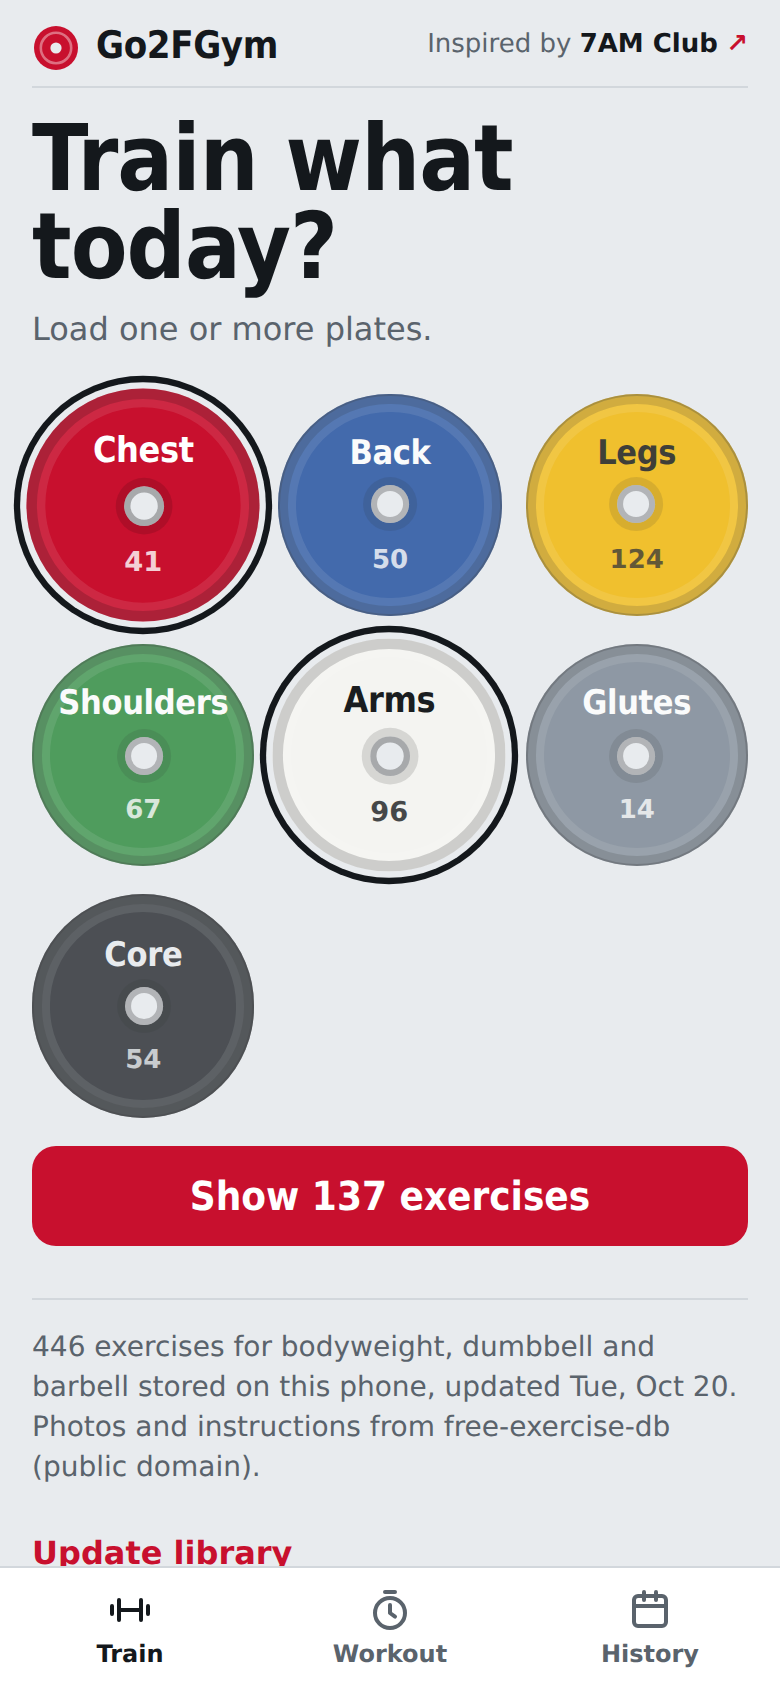
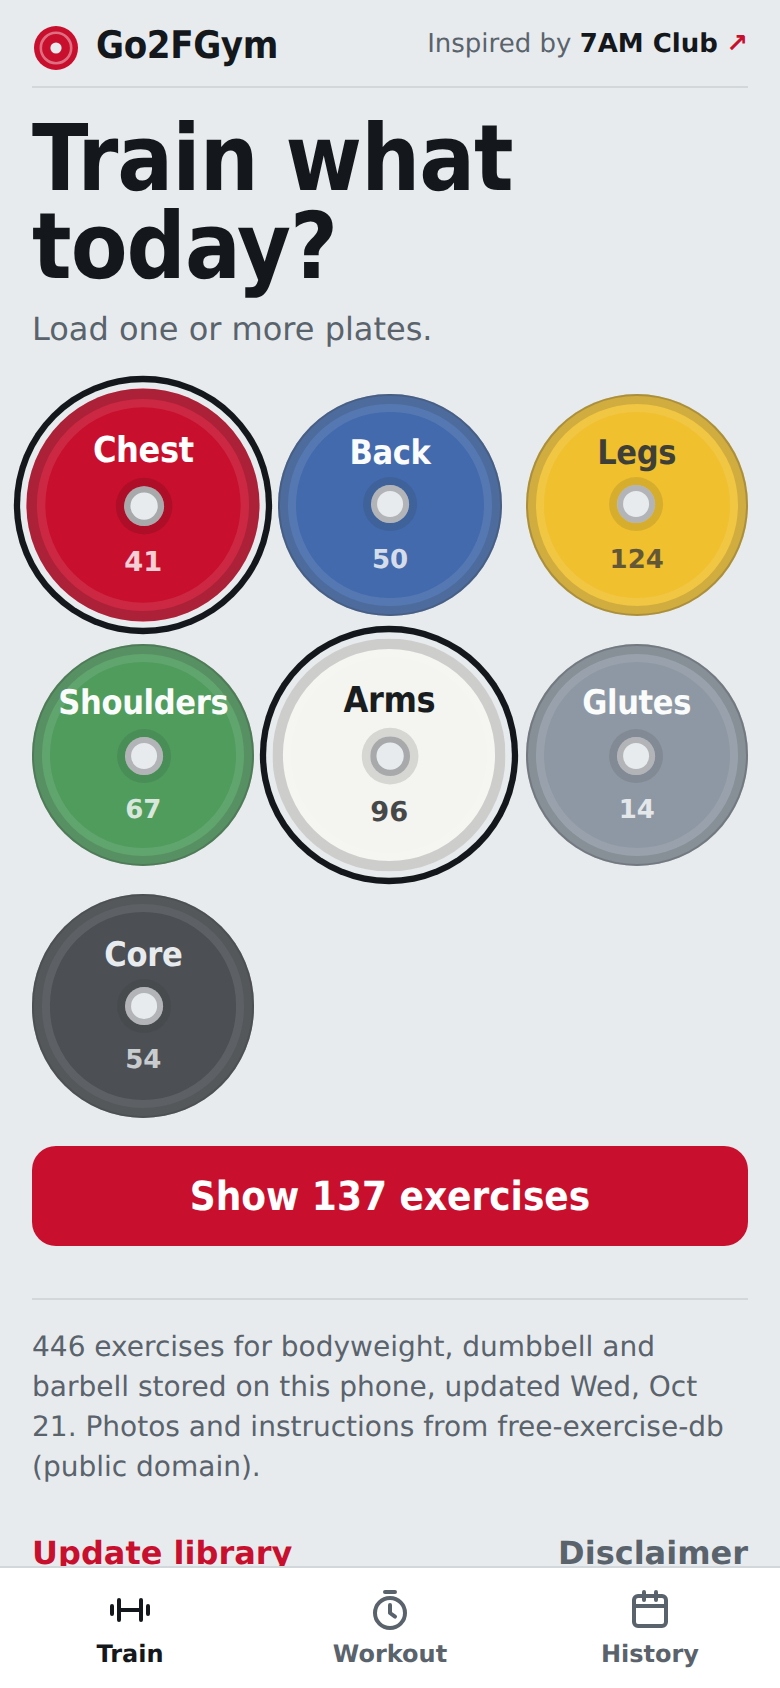
Add own-risk disclaimer: accept on first launch, Disclaimer link, safety note on exercises

Changed region(s): [[0.0308, 0.8009, 0.9231, 0.8626], [0.7077, 0.8934, 0.9538, 0.9242]]

diff --git a/Go2FGym.js b/Go2FGym.js
@@ -44,8 +44,12 @@ const P = {
   meta: fm.joinPath(ROOT, "library-meta.json"),
   history: fm.joinPath(ROOT, "history.json"),
   draft: fm.joinPath(ROOT, "draft.json"),
+  consent: fm.joinPath(ROOT, "disclaimer-accepted.json"),
 };
 for (const d of [ROOT, IMG]) if (!fm.fileExists(d)) fm.createDirectory(d, true);
+
+// Bump when the disclaimer text changes materially, so users accept it again.
+const DISCLAIMER_VERSION = 1;
 
 const J = (v) => JSON.stringify(v).replace(/\u2028/g, "\\u2028").replace(/\u2029/g, "\\u2029");
 const sleep = (ms) => new Promise((r) => Timer.schedule(ms, false, r));
@@ -261,7 +265,8 @@ async function runApp() {
     history,
     draft: readJSON(P.draft, null),
     meta: readJSON(P.meta, null),
-    cfg: { unit: CONFIG.unit, rest: CONFIG.restSeconds, equipment: CONFIG.equipment },
+    consent: readJSON(P.consent, null),
+    cfg: { unit: CONFIG.unit, rest: CONFIG.restSeconds, equipment: CONFIG.equipment, disclaimerVersion: DISCLAIMER_VERSION },
   };
 
   const wv = new WebView();
@@ -287,6 +292,9 @@ async function runApp() {
             }
           await js(`HG.onImages(${J(id)},${J(urls)})`);
         }
+        break;
+      case "accept":
+        writeJSON(P.consent, { version: p.version, acceptedAt: new Date().toISOString() });
         break;
       case "open":
         if (typeof p.url === "string" && p.url.startsWith("https://")) Safari.open(p.url);
@@ -435,6 +443,9 @@ function webApp() {
     imgs: {}, pending: new Set(), queue: new Set(),
     rest: { end: 0, total: 0, beeped: true },
     openSession: null, armed: null, sync: null,
+    consent: !!(BOOT.consent && BOOT.consent.version === CFG.disclaimerVersion),
+    showDisclaimer: false,
+    acceptedAt: BOOT.consent ? BOOT.consent.acceptedAt : null,
     scroll: {}, outbox: [],
   };
 
@@ -667,6 +678,23 @@ function webApp() {
       <button class="club" data-a="club" aria-label="Inspired by the 7AM Club community. Opens their Instagram.">Inspired by <b>7AM Club</b> <span aria-hidden="true">↗</span></button></header>`;
   }
 
+  function renderDisclaimer() {
+    const first = !S.consent;
+    return `${first ? appHeader() : `<header class="bar"><button class="back" data-a="close-disclaimer">‹ Back</button></header>`}
+      <h1 class="${first ? "hero" : "title"}">Train at your own risk</h1>
+      <div class="disclaimer">
+        <p>Go2FGym shows exercise photos and instructions for general information only. It is not medical, physiotherapy or coaching advice.</p>
+        <p>Check with a doctor before you start, especially if you have an injury or a health condition, are pregnant, or haven't trained for a while.</p>
+        <p>Learn each movement with light weights, warm up, use safety stops or a spotter for heavy barbell work, and stop straight away if you feel pain, dizziness or shortness of breath.</p>
+        <p>The exercise data comes from a third-party public-domain source and may contain mistakes.</p>
+        <p><b>You use this app and do these exercises entirely at your own risk.</b> To the fullest extent permitted by law, the author is not responsible or liable for any injury, health problem, loss or damage arising from using the app or doing the exercises.</p>
+      </div>
+      ${first
+        ? `<button class="primary" data-a="accept">I understand and accept</button>
+           <p class="muted small">You'll only be asked once. The full text is always available from the Train screen.</p>`
+        : `<p class="muted small">Accepted ${S.acceptedAt ? esc(day(S.acceptedAt)) : "earlier"}.</p>`}`;
+  }
+
   function renderLibraryEmpty() {
     return `${appHeader()}<h1 class="hero">Set up your gym</h1>
       <p class="lead">Download the exercise library once: about 450 exercises for ${esc(eqNames())}, each with two photos and step-by-step instructions (roughly 35 MB). After that, everything works offline.</p>
@@ -694,7 +722,8 @@ function webApp() {
       <button class="primary" data-a="browse" ${sel ? "" : "disabled"}>${sel ? `Show ${countFor(selectedMuscles())} exercises` : "Pick a muscle group"}</button>
       <footer class="lib">
         <p class="muted small">${S.lib.length} exercises for ${esc(eqNames())} stored on this phone${S.meta ? `, updated ${esc(day(S.meta.syncedAt))}` : ""}. Photos and instructions from free-exercise-db (public domain).</p>
-        ${S.sync ? syncProgress() : `<button class="link" data-a="sync">Update library</button>`}
+        <div class="row">${S.sync ? "" : `<button class="link" data-a="sync">Update library</button>`}<button class="link danger" data-a="disclaimer">Disclaimer</button></div>
+        ${S.sync ? syncProgress() : ""}
       </footer>`;
   }
 
@@ -749,6 +778,7 @@ function webApp() {
       <h2>Works</h2><div class="tags">${muscleTags(e.pm)}</div>
       ${e.sm.length ? `<h2>Also helps</h2><div class="tags quiet">${muscleTags(e.sm)}</div>` : ""}
       <h2>How to do it</h2><ol class="steps">${e.ins.map((s) => `<li>${esc(s)}</li>`).join("")}</ol>
+      <p class="note">Use a weight you can control with good form, and stop if anything hurts. You train at your own risk.</p>
       ${last ? `<h2>Last time</h2><p>${esc(day(last.date))}: ${esc(fmtSets(last.sets))}</p>` : ""}
       ${trendFor(e.id)}
       <div class="cta">${on
@@ -827,17 +857,19 @@ function webApp() {
   }
 
   // ------------------------------------------------ render
-  const viewKey = () => (S.detailId ? `detail:${S.detailId}` : S.tab === "train" ? `train:${S.trainView}` : S.tab);
+  const viewKey = () => (!S.consent ? "consent" : S.showDisclaimer ? "disclaimer" : S.detailId ? `detail:${S.detailId}` : S.tab === "train" ? `train:${S.trainView}` : S.tab);
   let currentKey = null;
   function render() {
     const key = viewKey();
     const same = currentKey === key;
     const y = window.scrollY;
     if (currentKey && !same) S.scroll[currentKey] = y;
-    $app.innerHTML = S.detailId ? renderDetail()
+    $app.innerHTML = !S.consent || S.showDisclaimer ? renderDisclaimer()
+      : S.detailId ? renderDetail()
       : S.tab === "train" ? (S.trainView === "list" && S.lib.length ? renderList() : renderHome())
       : S.tab === "workout" ? renderWorkout() : renderHistory();
-    renderTabs();
+    if (S.consent) renderTabs();
+    else $tabs.innerHTML = "";
     window.scrollTo(0, same ? y : key.startsWith("detail:") ? 0 : S.scroll[key] || 0);
     currentKey = key;
     if (S.detailId) want(S.detailId);
@@ -881,7 +913,15 @@ function webApp() {
   const ij = (v) => v.split(":").map(Number);
 
   const A = {
-    tab: (v) => { S.detailId = null; S.tab = v; S.armed = null; render(); },
+    accept: () => {
+      S.consent = true;
+      S.acceptedAt = new Date().toISOString();
+      send("accept", { version: CFG.disclaimerVersion });
+      render();
+    },
+    disclaimer: () => { S.showDisclaimer = true; render(); },
+    "close-disclaimer": () => { S.showDisclaimer = false; render(); },
+    tab: (v) => { S.showDisclaimer = false; S.detailId = null; S.tab = v; S.armed = null; render(); },
     plate: (v) => { S.groups.has(v) ? S.groups.delete(v) : S.groups.add(v); S.muscle = "all"; render(); },
     browse: () => { if (S.groups.size) { S.trainView = "list"; S.q = ""; render(); } },
     home: () => { S.trainView = "home"; render(); },
@@ -1130,6 +1170,9 @@ p{margin:0 0 10px}
 .spark polyline{fill:none;stroke:var(--accent);stroke-width:2.5;vector-effect:non-scaling-stroke}
 .spark circle{fill:var(--accent)}
 .cta{margin-top:18px}
+.note{font-size:14px;color:var(--muted);border-left:3px solid var(--accent);padding:2px 0 2px 10px;margin:4px 0 0}
+.disclaimer{background:var(--surface);border-radius:14px;padding:16px 16px 6px;margin:8px 0 6px}
+.disclaimer p{margin:0 0 12px}
 .empty{padding:30px 0}.empty-line{padding:20px 4px;color:var(--muted)}
 .entry{background:var(--surface);border-radius:14px;padding:12px 14px 4px;margin:0 0 12px}
 .entry-head{display:flex;justify-content:space-between;align-items:baseline;gap:10px}

diff --git a/README.md b/README.md
@@ -85,7 +85,12 @@ After changing `equipment`, tap **Update library** to download the extra photos.
 
 Exercise data and photos: **[free-exercise-db](https://github.com/yuhonas/free-exercise-db)** by yuhonas, released into the public domain, based on [exercises.json](https://github.com/wrkout/exercises.json) by Ollie Jennings.
 
-Go2FGym gives exercise instructions, not medical advice. Warm up, learn the form with light weights, and use safety stops or a spotter for heavy barbell work.
+
+## Disclaimer
+
+**Use Go2FGym and do these exercises at your own risk.** The app gives general exercise information, not medical, physiotherapy or coaching advice, and the exercise data may contain mistakes. Check with a doctor before starting, especially with an injury or health condition. Learn each movement with light weights, use safety stops or a spotter for heavy barbell work, and stop if you feel pain.
+
+To the fullest extent permitted by law, the author is not responsible or liable for any injury, health problem, loss or damage arising from using the app or doing the exercises. The app asks you to accept this on first launch.
 
 ## License
 

diff --git a/docs/INSTALL.md b/docs/INSTALL.md
@@ -20,8 +20,9 @@ Go2FGym runs inside **Scriptable**, a free iOS app that runs JavaScript. You don
 ## 2. Download the exercise library (once)
 
 1. Connect to **Wi-Fi** and run **Go2FGym**.
-2. Tap **Download library**. It fetches the exercise list and two photos for each exercise, about 35 MB in total.
-3. **Keep the screen open** until it says the library is ready. That takes a few minutes.
+2. Read the safety disclaimer and tap **I understand and accept**. You're only asked once; it's always available under **Train › Disclaimer**.
+3. Tap **Download library**. It fetches the exercise list and two photos for each exercise, about 35 MB in total.
+4. **Keep the screen open** until it says the library is ready. That takes a few minutes.
 
 If it's interrupted, just tap **Download library** or **Update library** again. Photos you already have are skipped.
 
